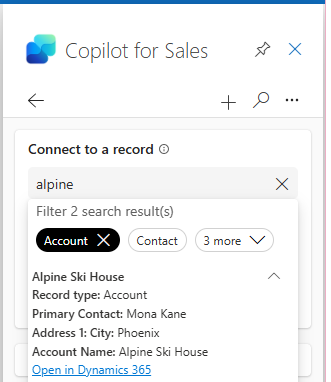
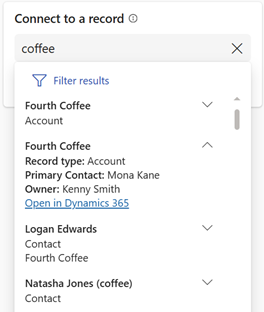
update

diff --git a/articles/global-search.md b/articles/global-search.md
@@ -1,7 +1,7 @@
 ---
 title: Search for a CRM record using Copilot for Sales
 description: Explore the Copilot for Sales CRM integration, which offers AI-based recommendations and user-initiated searches to efficiently deliver relevant records.
-ms.date: 12/17/2024
+ms.date: 12/19/2024
 ms.topic: how-to
 ms.service: microsoft-sales-copilot
 author: sbmjais
@@ -26,6 +26,8 @@ With Copilot for Sales, you can use the global search functionality to search fo
 1. In the search results, select the record to view the details.
 
     :::image type="content" source="media/global-search.png" alt-text="Screenshot of search results returned by global search.":::
+
+You can filter the search results by record type. The record types that are available for filtering depend on the record types that your administrator configured. The record types are shown above the list of search results. Select a record type to filter the search to results by that record type.
 
 ## Search for a record using other surfaces
 
@@ -54,11 +56,9 @@ When you search for a record in Copilot for Sales, the search results are shown 
     > [!NOTE]
     > For Dynamics 365, the key fields must be configured as View Columns in the Quick Find View for the record type. Otherwise, the additional fields aren't shown in the search results.
 
-### Filter search results by record type
+### Filter search results 
 
-You can filter the search results by record type. The record types that are available for filtering depend on the record types that your administrator configured. The record types are shown above the list of search results. Select a record type to filter the search to results by that record type.
-
-:::image type="content" source="media/global-search-filter.png" alt-text="Screenshot of filter options in global search.":::
+To help you find the right record more easily, Copilot for Sales provides filters that you can use to narrow down the search results. Filters are available for select record types and only when you save an email or meeting to the CRM. The record types that are available for filtering depend on the record types that your administrator configured.
 
 If the search results contain multiple records that have the same name, you can select each record to view more details. There is also a link that you can select to view the record in CRM. More details about a record are shown, based on the admin settings. These details are aligned with the [order of fields that are listed in the form configuration](customize-forms-and-fields.md#reorder-fields) for the record type.
 
@@ -66,9 +66,25 @@ When you expand the search results, you can view up to 10 fields. This number in
 
 :::image type="content" source="media/global-search-features.png" alt-text="Screenshot of search results.":::
 
-### Filter search results by using quick filters
+You can filter the search results by record details and record type.
 
-To help you find the right record more easily, Copilot for Sales provides quick filters that you can use to narrow down the search results. Quick filters are available for select record types when you save an email or meeting to the CRM. You can filter the search results by the following criteria:
+**To filter the search results**:
+
+1. [Save an email or meeting to the CRM](save-outlook-activities-crm.md#save-outlook-activities-from-the-highlight-card). 
+
+2. Under **Connect to a record**, use the search box to find a record.
+
+3. Select **Filter results** to filter the search results by record details and record type.
+
+4. In the **Apply filters** box, select the filters that you want to apply. Learn more about the [record details](#by-record-details) and [record types](#by-record-type) filters.
+
+    :::image type="content" source="media/global-search-filter.png" alt-text="Screenshot of filter options.":::
+
+5. Select **Apply**.
+
+#### By record details
+
+You can filter the search results by the following criteria:
 
 - **Active records**: This filter shows only records that are active.
 - **Owned by me**: This filter shows only records that are owned by you.
@@ -76,6 +92,10 @@ To help you find the right record more easily, Copilot for Sales provides quick 
 For Dynamics 365 Sales, these filters apply to opportunities, accounts, and contacts. The **Active records** filter is based on the default **Status** field, and the **Owned by me** filter is based on the default **ownerId** field.
 
 For Salesforce, the **Active records** filter applies to opportunities and is based on the default **IsClosed** field. The **Owned by me** filter applies to opportunities, accounts, and contacts and is based on the default **ownerId** field.
+
+#### By record type
+
+The record types that are available for filtering depend on the record types that your administrator configured. Select a record type to filter the search to results by that record type.
 
 ## How does search work in Copilot for Sales?
 
